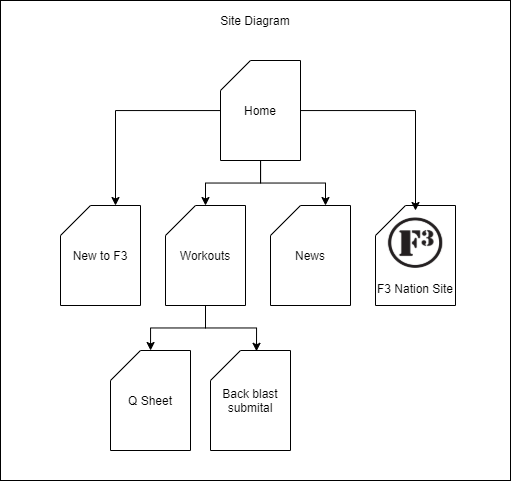
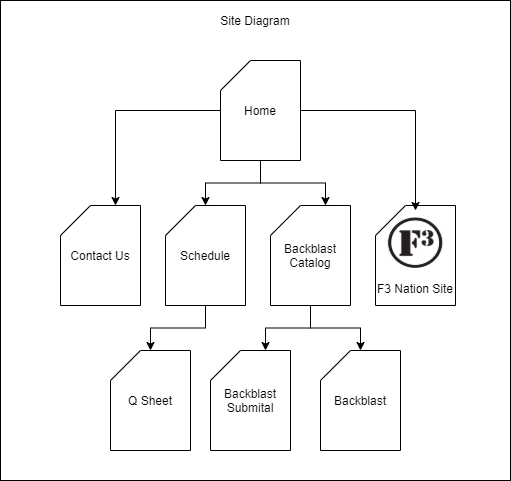
Update site map and rename backblast submittal

diff --git a/index.html b/index.html
@@ -26,7 +26,7 @@
                     <img src="F3Austin Site Diagram-Site Diagram.png" class="figure-img img-fluid rounded" alt="Site Diagram">
                     <figcaption  class="figure-caption">
                         <p>Here is the <em>current</em> overall structure for the site.</p>
-                        <p>Home, New to F3, Workout are critical to nail for the launch.  Improving News/Q Sheet/Backblast submitting will fast follow.</p>
+                        <p>Home, Contact Us, Schedule, Backblast Overview are critical to nail for the launch.  Improving Q Sheet/Backblast submitting will fast follow.</p>
                         <p>Adding new pages to the site should be done as little as possible to keep the navigation and orientation model as simple as possible.</p>
                     </figcaption>
                 </figure>
@@ -69,7 +69,7 @@
 
             <div class="card mt-3">
                 <div class="card-body">
-                    <h5 class="card-title"><em>Not Started</em> New to F3</h5>
+                    <h5 class="card-title"><em>Not Started</em> Contact Us</h5>
                     <p class="card-text mt-3">
                        This is the page that is primarily an information dump, and then resources, finally with workout links at the bottom. By design no links to Slack or PAX related components.   
                     </p>
@@ -79,7 +79,7 @@
 
             <div class="card mt-3">
                 <div class="card-body">
-                    <h5 class="card-title"><em>Not Started</em> Workouts</h5>
+                    <h5 class="card-title"><em>Not Started</em> Schedule</h5>
                     <p class="card-text mt-3">
                        Information desinty is the key, make it easy to find a workout, pull up the time and address so folks.  Links to Q Sheets and BBs on hand as well.
                     </p>
@@ -89,7 +89,7 @@
 
             <div class="card mt-3">
                 <div class="card-body">
-                    <h5 class="card-title"><em>Not Started</em> Backblast</h5>
+                    <h5 class="card-title"><em>Not Started</em> Backblast (Overview)</h5>
                     <p class="card-text mt-3">
                        How a backblast will look and be associated within the site.
                     </p>
@@ -97,17 +97,35 @@
                 </div>
             </div>
 
-
             <div class="card mt-3">
                 <div class="card-body">
-                    <h5 class="card-title"><em>Not Started</em> News</h5>
+                    <h5 class="card-title"><em>Not Started</em> Backblast</h5>
                     <p class="card-text mt-3">
-                       A place where all F3 Austin news posts are available in reverse chronolocial ordering.
+                       Show all of the regions backblast activitiy
                     </p>
-                    <a href="news.html" class="btn btn-secondary">News</a>
+                    <a href="backblast.html" class="btn btn-secondary">Workouts</a>
                 </div>
             </div>
 
+            <div class="card mt-3">
+                <div class="card-body">
+                    <h5 class="card-title"><em>Not Started</em> Backblast (Individual)</h5>
+                    <p class="card-text mt-3">
+                       How a backblast will be presented.
+                    </p>
+                    <a href="backblast.html" class="btn btn-secondary">Workouts</a>
+                </div>
+            </div>
+
+            <div class="card mt-3">
+                <div class="card-body">
+                    <h5 class="card-title">Backblast Submittal</h5>
+                    <p class="card-text mt-3">
+                       How a backblast will look and be associated within the site.
+                    </p>
+                    <a href="backblast-submittal.html" class="btn btn-secondary">Workouts</a>
+                </div>
+            </div>
         </div>
     </body>
 </html>

diff --git a/backblast-submittal.html b/backblast-submittal.html
@@ -15,42 +15,17 @@
         .nav-item .nav-link {
             color: black;
         }
-        body {
-            background-image: linear-gradient(#cccccc, #6D7275);
-        }
     </style>
 </head>
 
 <body>
-    <nav class="navbar sticky-top bg-light">
-        <div class="navbar-brand bg-secondary rounded pr-3 pl-3">
-            <img class="img-fluid" src="F3 Austin _ White (Long).svg" width="150px">
-        </div>
-        <!-- Site Navigation -->
-        <ul class="nav nav-pills">
-            <li class="nav-item"><a class="nav-link active">Home</a>
-            </li>
-            <li class="nav-item"><a class="nav-link">About Us</a>
-            </li>
-            <li class="nav-item"><a class="nav-link">Workouts</a>
-            </li>
-            <li class="nav-item"><a class="nav-link">Backblasts</a>
-            </li>
-            <li class="nav-item"><a class="nav-link">Contact Us</a>
-            </li>
-            <li class="nav-item"><a class="nav-link" href="http://f3nation.com" target="_blank">F3 Nation <svg width="1em" height="1em" viewBox="0 0 16 16" class="bi bi-link-45deg" fill="currentColor" xmlns="http://www.w3.org/2000/svg">
-                    <path d="M4.715 6.542L3.343 7.914a3 3 0 1 0 4.243 4.243l1.828-1.829A3 3 0 0 0 8.586 5.5L8 6.086a1.001 1.001 0 0 0-.154.199 2 2 0 0 1 .861 3.337L6.88 11.45a2 2 0 1 1-2.83-2.83l.793-.792a4.018 4.018 0 0 1-.128-1.287z"/>
-                    <path d="M6.586 4.672A3 3 0 0 0 7.414 9.5l.775-.776a2 2 0 0 1-.896-3.346L9.12 3.55a2 2 0 0 1 2.83 2.83l-.793.792c.112.42.155.855.128 1.287l1.372-1.372a3 3 0 0 0-4.243-4.243L6.586 4.672z"/>
-                  </svg></a>
-            </li>
-        </ul>
-    </nav>
+    <div id="nav-top"></div>
     <div class="container">
-    <div class="jumbotron text-center" style="background-image: linear-gradient(rgba(95, 94, 94, 0.5), rgba(0, 0, 0, 0.829)),url('https://pbs.twimg.com/media/Bqifho2CYAIUbf7.jpg'); background-size: cover; background-repeat: no-repeat; background-position: center;">
-        <img src="F3 Austin _ White (Long).svg" alt="" style="margin-top: 200px; display: block; width: 40em; margin-left: auto; margin-right: auto">
-        <h1 class="display-4 text-white">Post A Backblast</h1>
-        <p class="lead text-white"></p>
-    </div>
+        <div class="jumbotron text-center" style="background-image: linear-gradient(rgba(95, 94, 94, 0.5), rgba(0, 0, 0, 0.829)),url('https://pbs.twimg.com/media/Bqifho2CYAIUbf7.jpg'); background-size: cover; background-repeat: no-repeat; background-position: center;">
+            <img src="F3 Austin _ White (Long).svg" alt="" style="margin-top: 200px; display: block; width: 40em; margin-left: auto; margin-right: auto">
+            <h1 class="display-4 text-white">Post A Backblast</h1>
+            <p class="lead text-white"></p>
+        </div>
         <form>
             <div class="form-group">
                 <label for="bbTitle">Backblast Title</label>
@@ -125,9 +100,15 @@
                     <textarea type="text" class="form-control" rows="3" id="bbCot" placeholder="The heart of the circle of trust"></textarea>
                 </div>
             </fieldset>
-            <button type="submit" class="btn btn-primary">Submit</button>
+            <button type="submit" class="btn btn-secondary">Submit</button>
         </form>
     </div>
+    <div id="nav-bottom" class="mt-3"></div>
+
+    <script lang="javascript">
+        $("#nav-top").load("./components/nav-top.html")
+        $("#nav-bottom").load("./components/nav-bottom.html")
+    </script>
 </body>
 
 </html>
